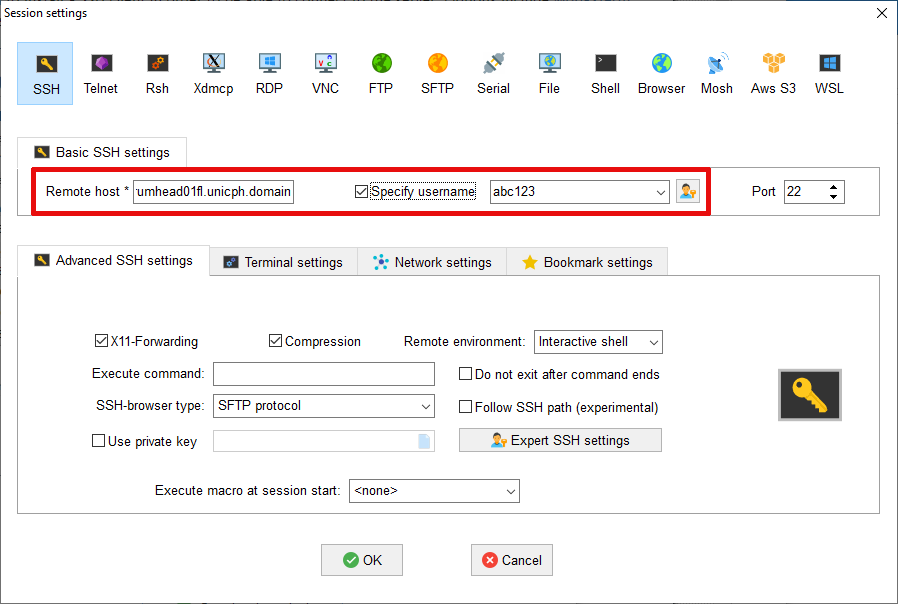
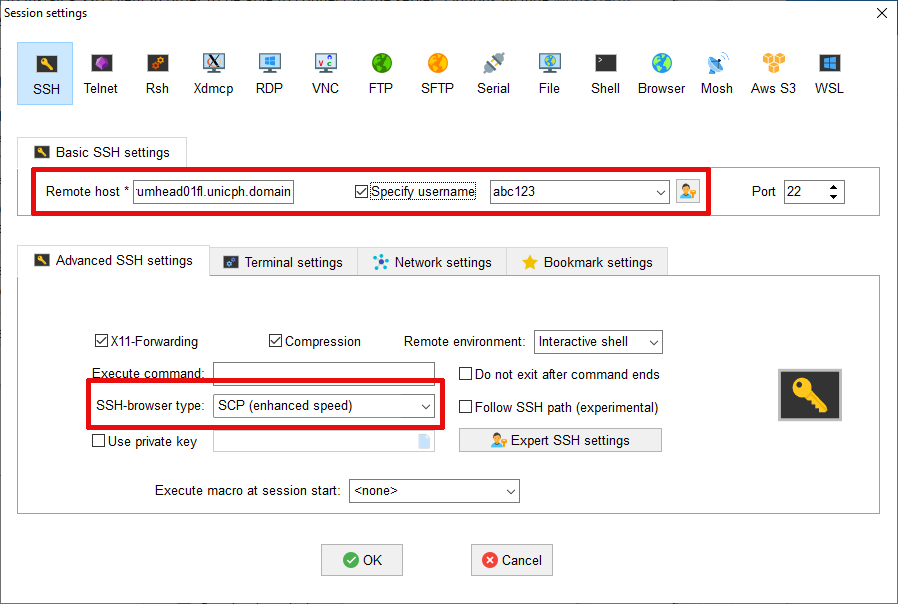
add solutions for common issues with MobaXterm

Changed region(s): [[0.0935, 0.6258, 0.4989, 0.7152]]

diff --git a/esrum/source/usage/connecting.rst b/esrum/source/usage/connecting.rst
@@ -50,6 +50,8 @@ Configuring MobaXterm
    #. Write ``esrumhead01fl.unicph.domain`` under ``Remote Host``
    #. Click the checkbox next to ``Specify username`` and enter your KU
       username (in the form ``abc123``)
+   #. Select ``SCP (enhanced speed)`` on the ``SSH-browser`` type
+      drop-down menu. This is required for file-uploads to work.
 
    .. image:: images/mobaxterm_03.png
       :align: center
@@ -92,6 +94,19 @@ left side of MobaXterm, or select ``Esrum`` from the list that appears
 when clicking on the middle ``Sessions`` button on the main menu.
 
    .. image:: images/mobaxterm_07.png
+      :align: center
+
+Note that you must disable login using Kerberos (GSSAPI) if you wish to
+access the KU network drives (``H:`` and ``N:``) via Esrum. To do so,
+open the ``Configuration`` dialog as shown:
+
+   .. image:: images/mobaxterm_08.png
+      :align: center
+
+Then untick the ``GSSAPI Kerberos`` checkbox as shown and click the
+``OK`` button:
+
+   .. image:: images/mobaxterm_09.png
       :align: center
 
 .. _s_connecting_linux:
@@ -197,6 +212,18 @@ server:
    #. Click the ``Add to cart`` button.
 
    #. Click the ``SUBMIT ORDER`` button.
+
+File uploads using MobaXterm never start
+========================================
+
+Please make sure that your session is configured to use the ``SCP
+(enchanced speed)`` browser type. See step 4 in the above instructions.
+
+KU network-folders in ``~/ucph`` are not available when using MobaXterm
+=======================================================================
+
+Please make sure that you have disabled use of ``GSSAPI Kerberos`` as
+described above.
 
 .. _danish: https://kunet.ku.dk/medarbejderguide/Sider/It/Fjernadgang-vpn.aspx
 

diff --git a/esrum/source/usage/filesystem.rst b/esrum/source/usage/filesystem.rst
@@ -40,9 +40,16 @@ When you login to Esrum for the first time, your home folder should
 contain a single folder named ``ucph``. This folder in turn contains
 your KU network drives (formerly ``H:`` and ``N:``).
 
+.. warning::
+
 Note that these drives are only accessible from the head node. If you
-need to analyze data located on either of these shared drives, then you
-will need to copy it an appropriate projects folder.
+   need to analyze data located on either of these shared drives, then
+   you will need to copy it an appropriate projects folder.
+
+   Note furthermore that access to these folders will not be available
+   if you login using Kerberos (GSSAPI). See the
+   :ref:`p_usage_connecting` page for instructions for how to disable
+   this feature if you are using MobaXterm.
 
 .. _s_project_folders:
 
